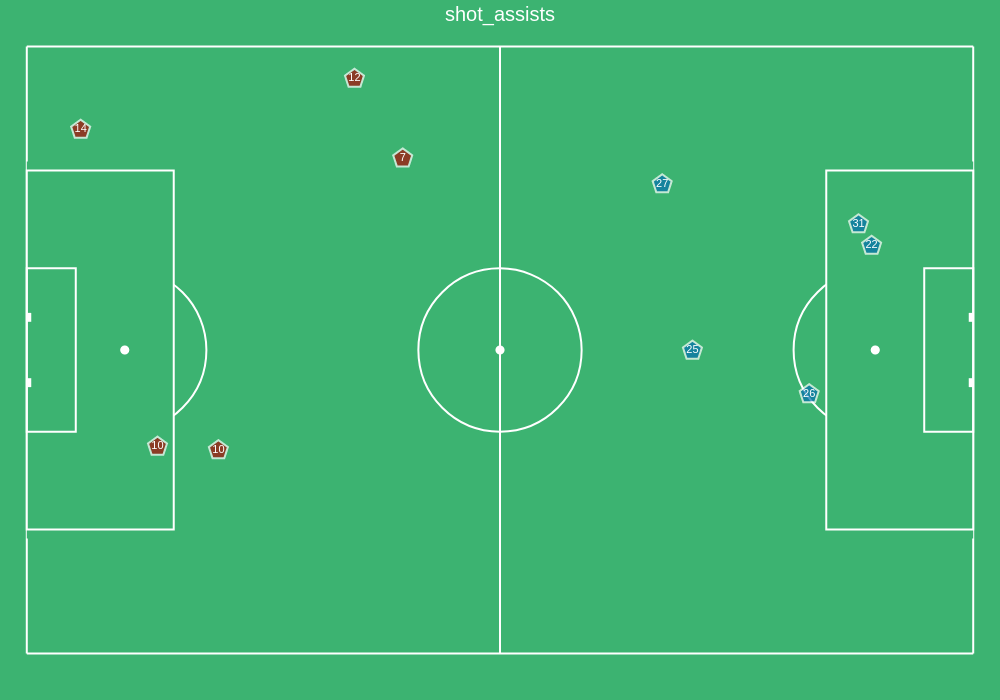
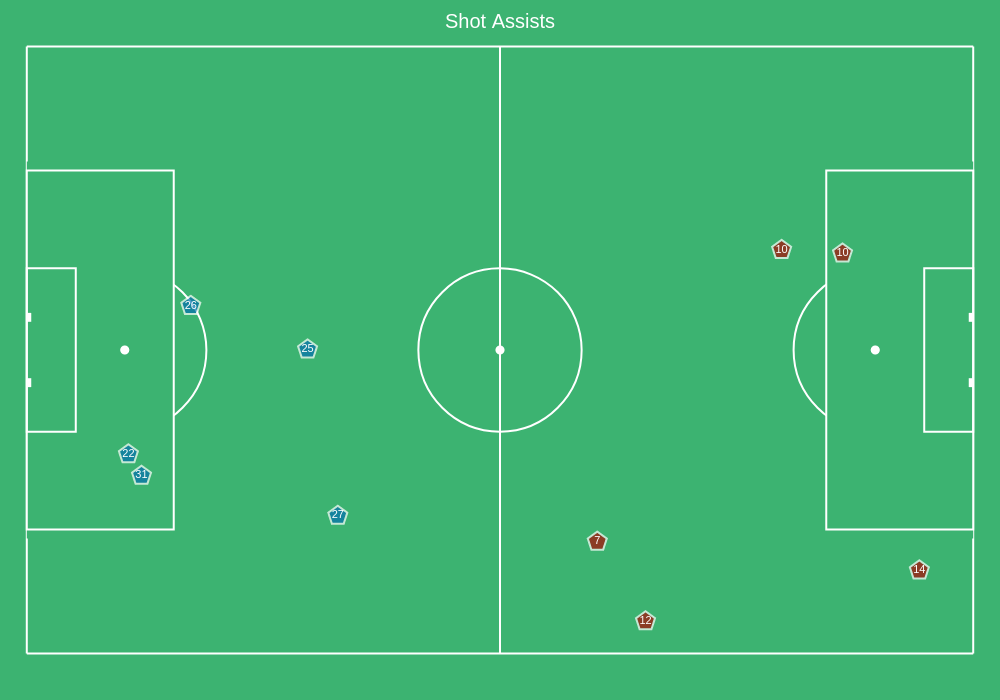
add pitch control changes

diff --git a/src/pitchly/metrica.py b/src/pitchly/metrica.py
@@ -26,8 +26,8 @@ class TrackingData:
         ]
 
         data = self.metric_coords(data)
+        data = self.flip_direction(data, period=1)
         data = self.calc_player_velocities(data, filter_="moving average")
-        data = self.flip_second_half_direction(data)
         self.data = data
 
     def metric_coords(self, data, field_dimen=prm.field_dim):
@@ -118,14 +118,19 @@ class TrackingData:
 
         return data
 
-    def flip_second_half_direction(self, data):
+    def flip_direction(self, data, period=2):
         """
         Flip coordinates in second half so that each team always shoots in
         the same direction through the match.
         """
-        second_half_idx = data.period_id.idxmax(2)
-        columns = [c for c in data.columns if c[-1] in ["X", "y"]]
-        data.loc[second_half_idx:, columns] *= -1
+
+        second_half_idx = data.period_id.idxmax()
+        columns = [c for c in data.columns if c[-1] in ["x", "y"]]
+        if period == 1:
+            data.loc[:second_half_idx, columns] *= -1
+        else:
+            data.loc[second_half_idx:, columns] *= -1
+
         return data
 
     def get_frameID_from_timestamp(self, timestamp):
@@ -345,11 +350,11 @@ class TrackingData:
     ):
 
         if t1:
-            t0 = self.get_timestamp(t0)
-            t1 = self.get_timestamp(t1)
+            t0_ = self.get_timestamp(t0)
+            t1_ = self.get_timestamp(t1)
 
-            f0 = self.get_frameID_from_timestamp(t0)
-            f1 = self.get_frameID_from_timestamp(t1)
+            f0 = self.get_frameID_from_timestamp(t0_)
+            f1 = self.get_frameID_from_timestamp(t1_)
 
             if ":" in t0:
                 t0 = f"{t0.split(':')[0]}' {t0.split(':')[1]}\""
@@ -413,21 +418,21 @@ class EventData:
     def metric_coords(self, event_list):
         for event in event_list:
             # flip sign
-            sign = 1 if event.period.id == 1 else -1
+            sign = -1 if event.period.id == 1 else 1
             # print(event.raw_event)
             # transform to metric dim (106,68)
             event.raw_event["start"]["X"] = sign * (
-                (event.raw_event["start"]["x"] - 0.5) * 106.0
+                (event.raw_event["start"]["x"] - 0.5) * prm.field_dim[0]
             )
             event.raw_event["start"]["Y"] = sign * (
-                -1 * (event.raw_event["start"]["y"] - 0.5) * 68.0
+                -1 * (event.raw_event["start"]["y"] - 0.5) * prm.field_dim[1]
             )
             if event.raw_event["end"]["x"] is not None:
                 event.raw_event["end"]["X"] = sign * (
-                    (event.raw_event["end"]["x"] - 0.5) * 106.0
+                    (event.raw_event["end"]["x"] - 0.5) * prm.field_dim[0]
                 )
                 event.raw_event["end"]["Y"] = sign * (
-                    -1 * (event.raw_event["end"]["y"] - 0.5) * 68.0
+                    -1 * (event.raw_event["end"]["y"] - 0.5) * prm.field_dim[1]
                 )
         return event_list
 

diff --git a/src/pitchly/pitch.py b/src/pitchly/pitch.py
@@ -298,8 +298,6 @@ class Pitch:
         fig = go.Figure(fig_dict)
         fig.show()
 
-        return frames
-
     def plot_pitch(self):
         """Just generates an empty pitch.
         Store it in a fig object and add data to plot over it.

diff --git a/docs/usage.rst b/docs/usage.rst
@@ -59,7 +59,7 @@ Plot Frame by FrameID
 ^^^^^^^^^^^^^^^^^^^^^
 .. code-block:: python
 
-    data.plot_frame(frameID=264)
+    data.plot_frame(frameID=3264)
 
 .. image:: imgs/t1.png
     :width: 500
@@ -81,7 +81,7 @@ You can plot a sequence of frames with a slider to animate/track an event.
 
 .. code-block:: python
 
-    data.plot_sequence(f0=17850,f1=17950)
+    data.plot_sequence(f0=15850,f1=15950)
 
 .. image:: imgs/t1.gif
     :width: 500
@@ -98,6 +98,33 @@ Or use the start time and end time for an interval sequence.
 .. image:: imgs/t2.gif
     :width: 500
     :alt: Output of plot_sequence by time
+
+
+Pitch control
+^^^^^^^^^^^^^
+The pitch control is calculated by adapting Laurie Shaw's work on William Spearman's model.
+Since generating pitch control visualization on the fly gets sluggish, it is recommended to
+proceed with slight patience using the sliders (the pitch control overlay reloads with a tiny
+delay for every frame). The example shown here is for a very small time range (5 seconds / 125
+frames) and generating the viz takes 7 minutes.
+
+.. code-block:: python
+
+    data.plot_sequence(t0='72',t1='72:05', pitch_control = True)
+
+.. image:: imgs/p1.gif
+    :width: 500
+    :alt: Output of plot_sequence by time
+
+Generating pitch control overlay for individual frame/time inputs is fairly faster.
+
+.. code-block:: python
+
+    data.plot_frame(time='17:20', pitch_control = True)
+
+.. image:: imgs/p1.png
+    :width: 500
+    :alt: Output of plot_frame by time
 
 
 Event Data
@@ -267,7 +294,8 @@ In order to know the index, you can browse the subset of choice using a ``kloppy
 
 .. code-block:: python
 
-    kloppy.to_pandas(data.get_shots(),additional_columns={'index_to_plot':lambda row: row.raw_event['index']})
+    kloppy.to_pandas(data.get_shots(),
+                     additional_columns={'index_to_plot': lambda row: row.raw_event['index']}).set_index('index_to_plot')
 
 
 Old Metrica Format (csv)

diff --git a/README.rst b/README.rst
@@ -120,6 +120,6 @@ Acknowledgements
 ================
 
 * `David Sumpter <https://twitter.com/Soccermatics>`_ - for the amazing Friends of Tracking initiative
-* `Laurie Shaw <https://twitter.com/eightyfivepoint>`_ for starter code for data processing
+* `Laurie Shaw <https://twitter.com/eightyfivepoint>`_ for pitch control implementation and starter code for data processing
 * `Bruno Dagnino <https://twitter.com/brunodagnino>`_ & `Metrica Sports <https://twitter.com/metricasports>`_ - for the open data (especially tracking)
 * `Koen Vossen <https://twitter.com/mr_le_fox>`_ - for kloppy library and inspiring work in open source football analytics
